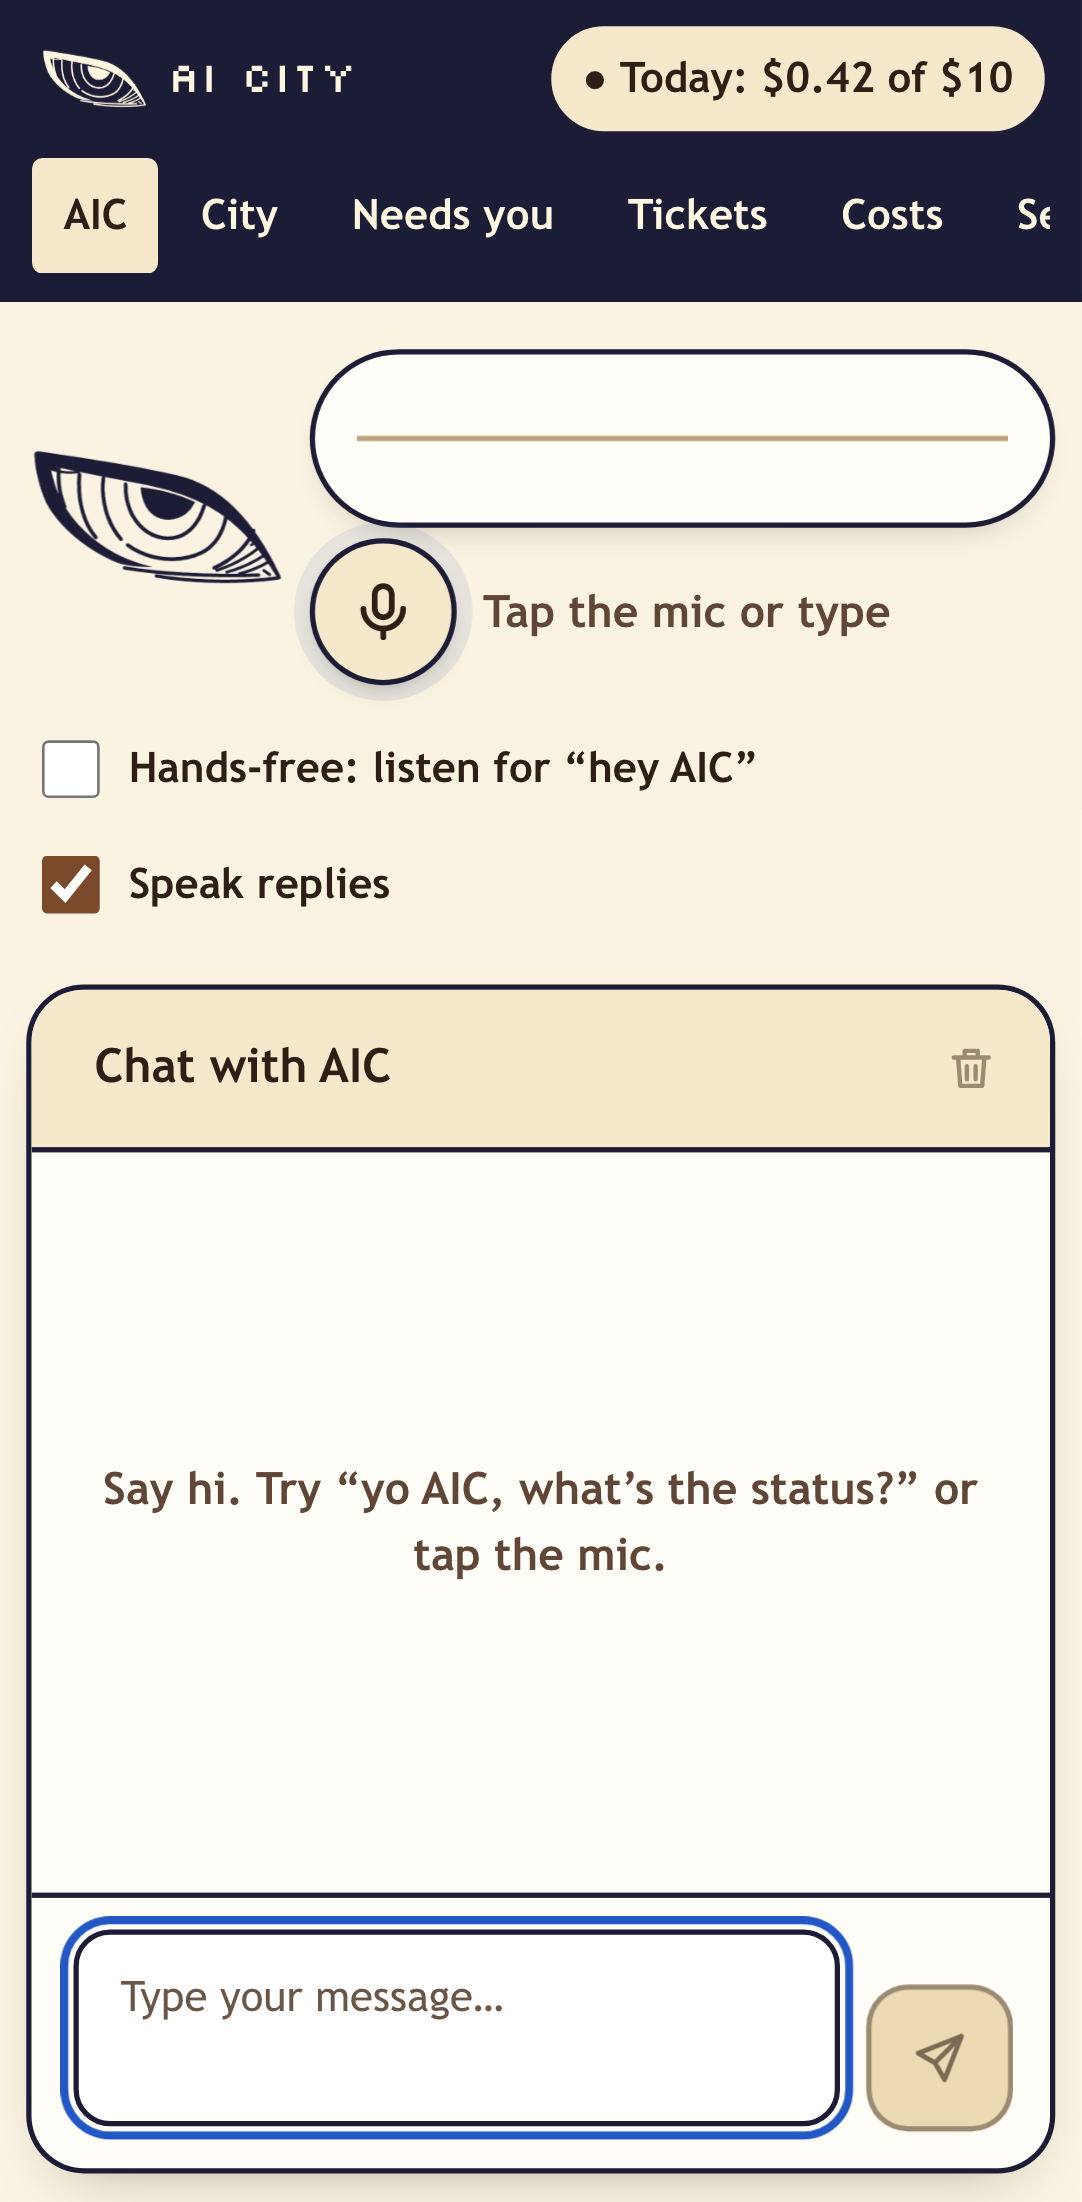
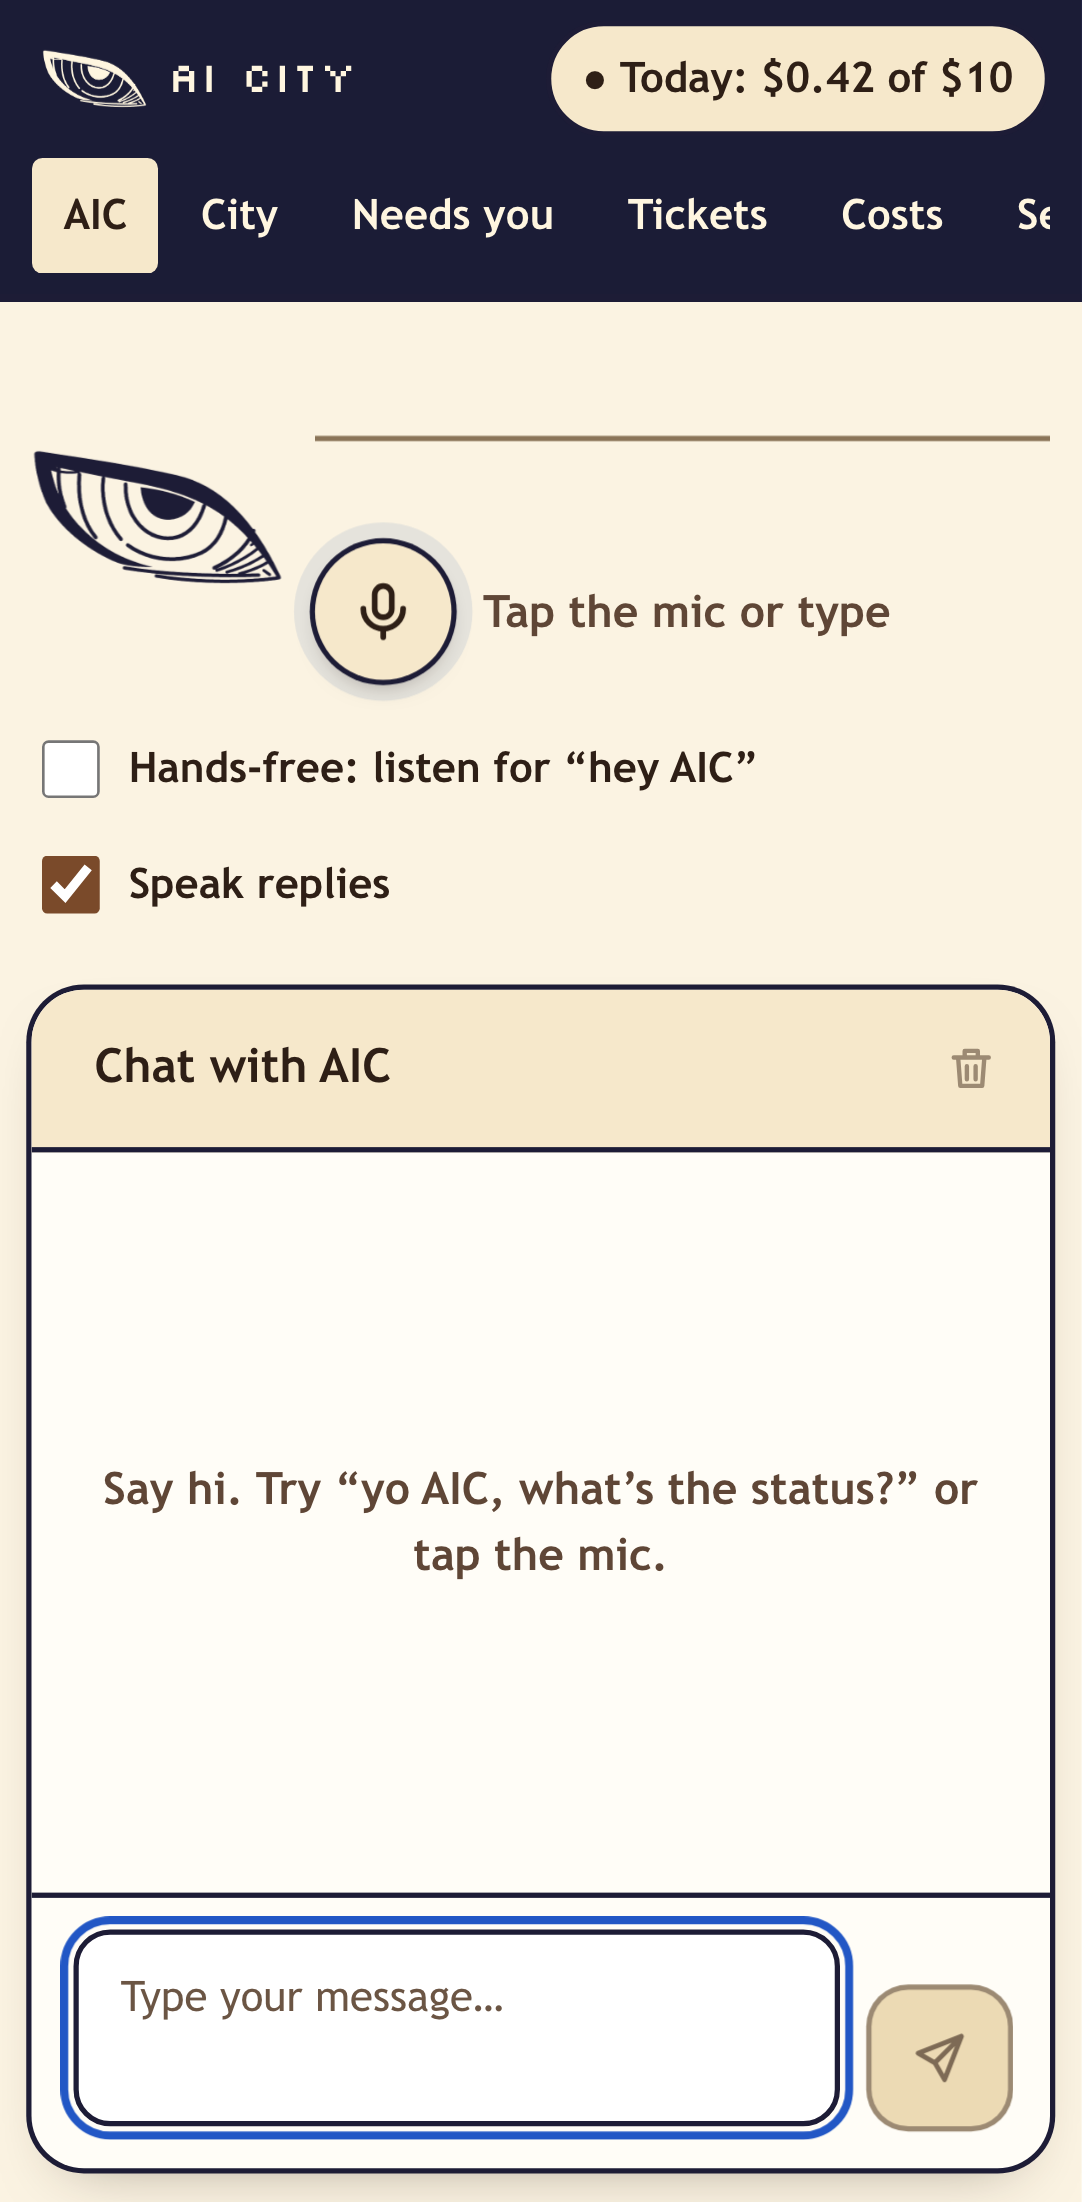
AIC voice line: drop the oval frame, keep only the horizontal line
The owner's request: no border or filled pill around the visualizer under the eye,
just the line in the middle. The idle line is darkened (#8a7458) so it stays visible
on the page without the frame.

Changed region(s): [[0.2745, 0.1544, 0.976, 0.247]]

diff --git a/web/src/components/VoiceVisualizer.tsx b/web/src/components/VoiceVisualizer.tsx
@@ -15,7 +15,7 @@ export const speakerOf = (p: Presence): Speaker =>
   p === "listening" ? "you" : p === "speaking" ? "aic" : p === "thinking" ? "thinking" : "idle";
 
 const BARS = 36;
-const COLOR = { you: "#2a56a8", aic: "#7a4a2a", aicSoft: "#c98f55", thinking: "#5f4636", idle: "#b9a37f" };
+const COLOR = { you: "#2a56a8", aic: "#7a4a2a", aicSoft: "#c98f55", thinking: "#5f4636", idle: "#8a7458" };
 const reducedMotion = () => window.matchMedia?.("(prefers-reduced-motion: reduce)").matches ?? false;
 
 export function VoiceVisualizer(p: { presence: Presence; listening: boolean; onMic: () => void }) {

diff --git a/web/src/styles.css b/web/src/styles.css
@@ -552,20 +552,15 @@ main {
   display: grid;
   gap: var(--s2);
 }
+/* No frame: just the line itself, drawn straight on the page under the eye. */
 .voice-strip {
   position: relative;
   height: 104px;
-  border-radius: 999px;
-  background: var(--sheet);
-  box-shadow:
-    0 0 0 2px var(--ink),
-    0 6px 14px -8px rgba(46, 31, 22, 0.45);
-  overflow: hidden;
 }
 .voice-strip canvas {
   position: absolute;
-  inset: 0 var(--s4);
-  width: calc(100% - 2 * var(--s4));
+  inset: 0;
+  width: 100%;
   height: 100%;
 }
 .voice .mic {

diff --git a/docs/PRODUCT.md b/docs/PRODUCT.md
@@ -85,7 +85,7 @@ Owner message → `POST /messages` → SQS (`ace` queue) → **dispatcher** Lamb
 | API | Notifications (results, cap alerts, pause, 15-min question nudge) | ✅ / nudge job off | `lambdas/notifier.py` |
 | Voice | Push-to-talk, wake mode (plain match, Haiku for unclear), Transcribe + Polly via identity pool; a failing mic or speech service shows its real cause (blocked permission, no mic, mic busy, AWS error name) and logs `[AIC voice] …` with the original error to the browser console; a broken or closed stream stops listening instead of hanging | 🟡 fake voice only (error messages unit- and Playwright-tested; real Transcribe not run in a browser) | `web/src/voice/`, `utility.py`, `tests/fixtures/wake-cases.json` |
 | HUD | Own sign-in screens: temporary password → own password (live rules) → authenticator app (QR + key) → code; later password + code; forgot password; “send me a new first-login email” (public API route, owner's email only, 1 per 10 min) | ✅ (fake auth in Playwright) / 🟡 real Cognito not yet tried | `web/src/components/SignIn.tsx`, `web/src/lib/auth.ts`, `backend/src/aic/lambdas/api.py` |
-| HUD | AIC screen in a bright daytime theme (parchment, ink outlines, wood and lamplight from the City): the eye (the owner's own drawing, `web/public/ace-eye.png`) with a voice strip under it on the left, the chat on the right (stacked on a phone). The strip shows who talks by shape, words and colour: blue bars following the owner's mic level ("You’re talking"), a brown flowing wave following AIC's Polly reply ("AIC is talking"), travelling dots ("AIC is thinking"), a flat line when idle; still pictures with prefers-reduced-motion. Message cards with round You/AIC badges; streaming; drafts + outbox survive reloads | ✅ | `web/src/components/AceScreen.tsx`, `VoiceVisualizer.tsx` |
+| HUD | AIC screen in a bright daytime theme (parchment, ink outlines, wood and lamplight from the City): the eye (the owner's own drawing, `web/public/ace-eye.png`) with a voice line under it on the left (just the horizontal line, no frame around it), the chat on the right (stacked on a phone). The strip shows who talks by shape, words and colour: blue bars following the owner's mic level ("You’re talking"), a brown flowing wave following AIC's Polly reply ("AIC is talking"), travelling dots ("AIC is thinking"), a flat line when idle; still pictures with prefers-reduced-motion. Message cards with round You/AIC badges; streaming; drafts + outbox survive reloads | ✅ | `web/src/components/AceScreen.tsx`, `VoiceVisualizer.tsx` |
 | HUD | City view ported from the Mac HUD (AIC in plaza, Orchestrator at HQ door, manager at each department door, workers walk in/out, FREE LOTs, growing town, count badges, houses for specialists, top bar, right panel, bottom bar) | ✅ | `web/src/city/`, `CityView.tsx` |
 | HUD | Needs you (default answer in one tap; hold-to-approve), Tickets, Costs, Settings, first-run guide, spend pill (amber 80 %, red 100 %) | ✅ | `web/src/components/` |
 | HUD | Idiot-proof rules (one primary button, confirms with cost, Undo, plain errors, 44 px targets) | ✅ | `docs/UX_REVIEW.md` |
